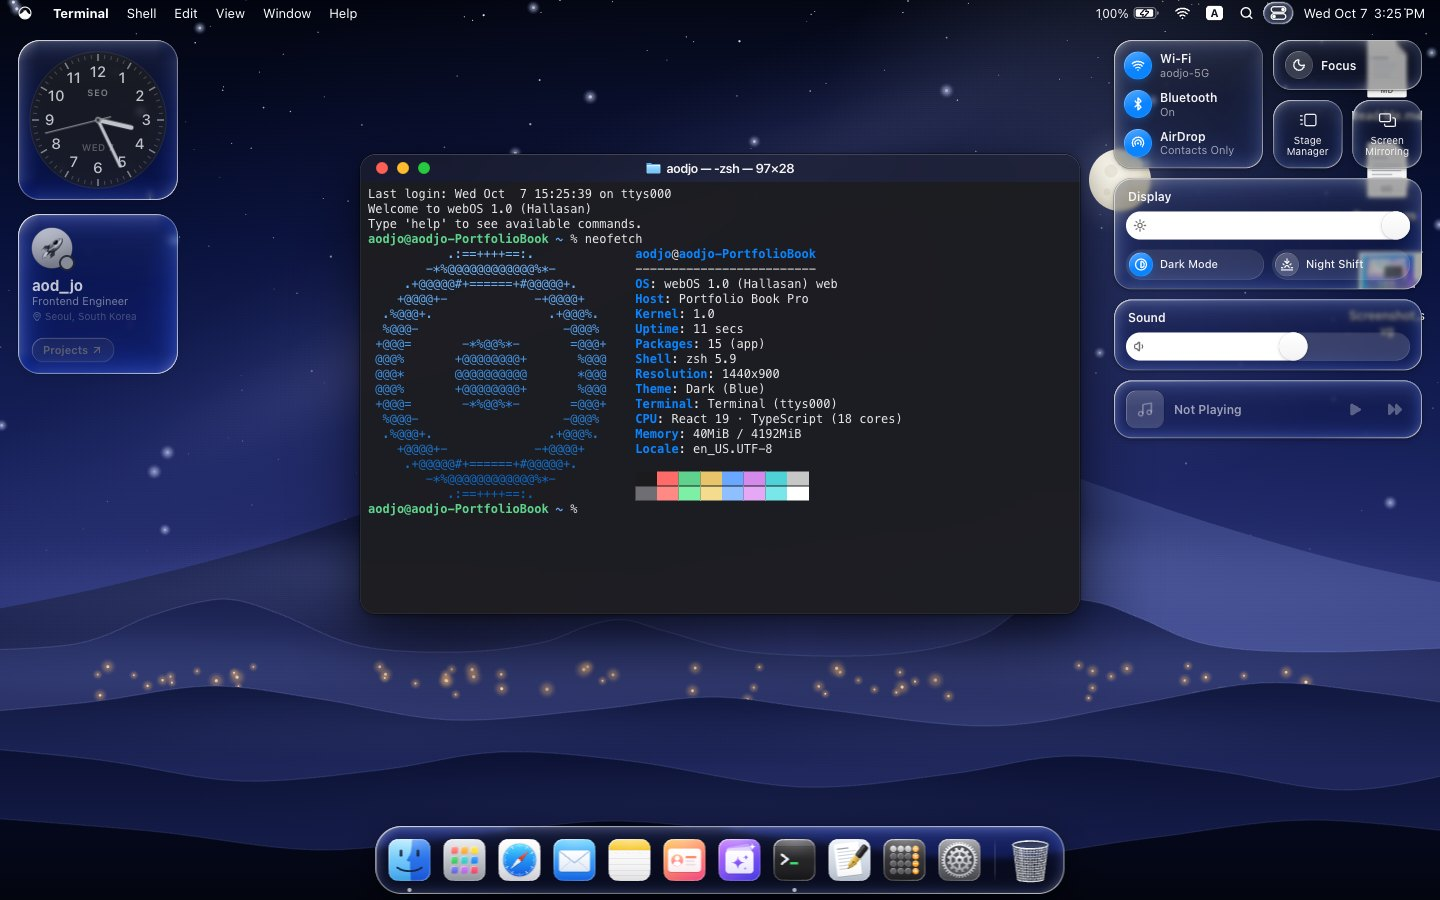
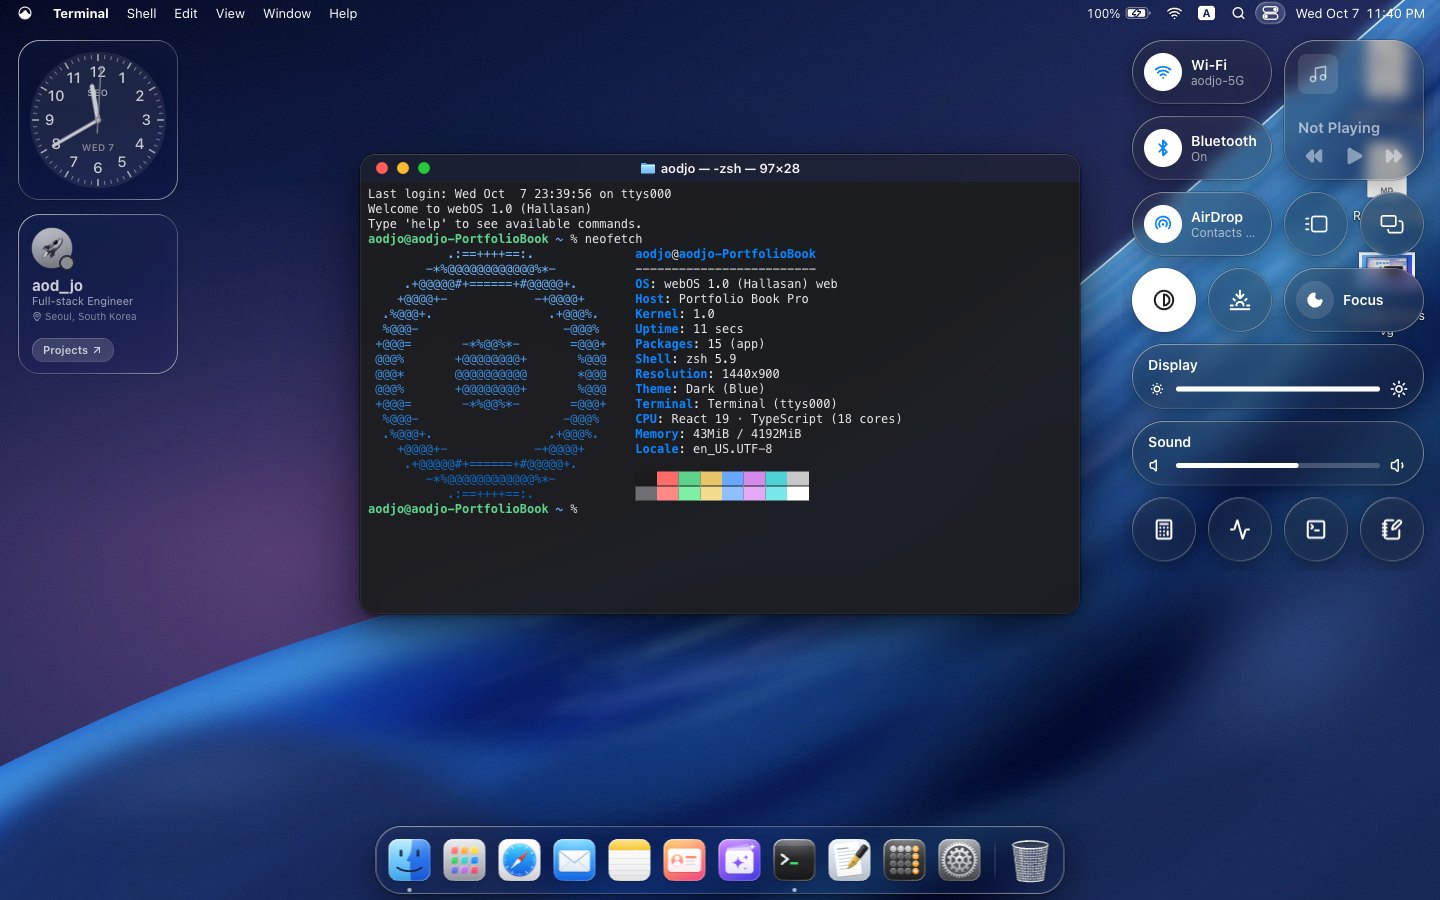
docs: update README and screenshots

diff --git a/README.md b/README.md
@@ -18,7 +18,7 @@ Real window management, a persistent virtual file system, a zsh-like terminal an
 - **Apps** — Finder (icon / list / column / gallery views, Quick Look, Get Info), Terminal (pipes, redirection, globbing, history, tab completion, `neofetch`), TextEdit, Preview, Notes, Safari, Mail, Calculator, Activity Monitor, System Settings, Minesweeper.
 - **Portfolio apps** — About Me, Projects and a first-run Tips tour, all generated from one data file.
 - **System** — boot, login and lock screens, sleep / restart / shut down, menu bar with real menus and shortcuts, Control Center, Notification Center, Spotlight (apps, files, math), Launchpad, desktop widgets.
-- **Liquid Glass** — translucent glass with rim light and inner glow everywhere; on Chromium browsers an SVG filter adds real edge refraction and colour bleed (Dock, Spotlight, menus, Control Center, the lock screen clock).
+- **Liquid Glass** — translucent glass with a thin rim light, modelled on macOS 26: Control Center and widgets switch between white and dark content depending on what lies behind them, and the lock screen clock is milky glass over the wallpaper. On Chromium browsers an SVG filter adds real edge refraction (Dock, Spotlight, menus, Control Center, widgets).
 - **English / 한국어** UI switchable at runtime, light / dark / auto appearance, accessibility options (Reduce Motion, Reduce Transparency), phone-friendly layout.
 
 ## Getting started
@@ -38,7 +38,7 @@ Edit **`src/data/portfolio.ts`** — name, role, bio, contact links, skills, exp
 
 - Avatar: replace `public/avatar.svg` (an emoji on a gradient by default).
 - Project covers: `public/projects/*.svg`, referenced by each project's `cover`.
-- Wallpapers: `public/wallpapers/*.svg`, listed in `src/kernel/wallpapers.ts`.
+- Wallpapers: `public/wallpapers/`, listed in `src/kernel/wallpapers.ts`. The default "Flow" picture is drawn by `scripts/wallpapers/flow.html` and saved as JPEGs by `scripts/wallpapers/render.js` (a Playwright snippet, run with the dev server up).
 
 Visitors' changes (files, settings) are stored in their own browser; when you change the portfolio data, returning visitors get the new content merged in and keep their own files.
 
@@ -74,7 +74,7 @@ This is an independent fan-made project inspired by macOS. It is not affiliated 
 
 ## 한국어
 
-브라우저에서 동작하는 macOS 스타일 운영체제이자 개발자 포트폴리오입니다. 실제 창 관리, IndexedDB에 저장되는 가상 파일시스템, zsh 스타일 터미널, 하나의 커널을 공유하는 십여 개의 앱을 Liquid Glass 디자인으로 구현했습니다.
+브라우저에서 동작하는 macOS 스타일 운영체제이자 개발자 포트폴리오입니다. 실제 창 관리, IndexedDB에 저장되는 가상 파일시스템, zsh 스타일 터미널, 하나의 커널을 공유하는 십여 개의 앱을 macOS 26의 Liquid Glass 디자인으로 구현했습니다. 제어 센터와 위젯은 뒤에 있는 내용에 따라 흰 글씨와 어두운 글씨를 오가고, 잠금 화면 시계는 배경이 비치는 우윳빛 유리로 그립니다.
 
 ### 실행
 
@@ -91,7 +91,7 @@ npm run build      # dist/ 에 정적 사이트 생성
 
 - 아바타: `public/avatar.svg` 교체 (기본값은 그라데이션 위 이모지)
 - 프로젝트 커버: `public/projects/*.svg`
-- 배경화면: `public/wallpapers/*.svg` (목록은 `src/kernel/wallpapers.ts`)
+- 배경화면: `public/wallpapers/` (목록은 `src/kernel/wallpapers.ts`). 기본 배경 "Flow"는 `scripts/wallpapers/flow.html`이 그리고 `scripts/wallpapers/render.js`(Playwright 스니펫, 개발 서버 실행 중에 사용)가 JPEG로 저장합니다.
 
 방문자가 만든 파일과 설정은 각자의 브라우저에 저장됩니다. 포트폴리오 데이터를 바꾸면 재방문자에게 새 내용이 병합되고 방문자 파일은 유지됩니다.
 
